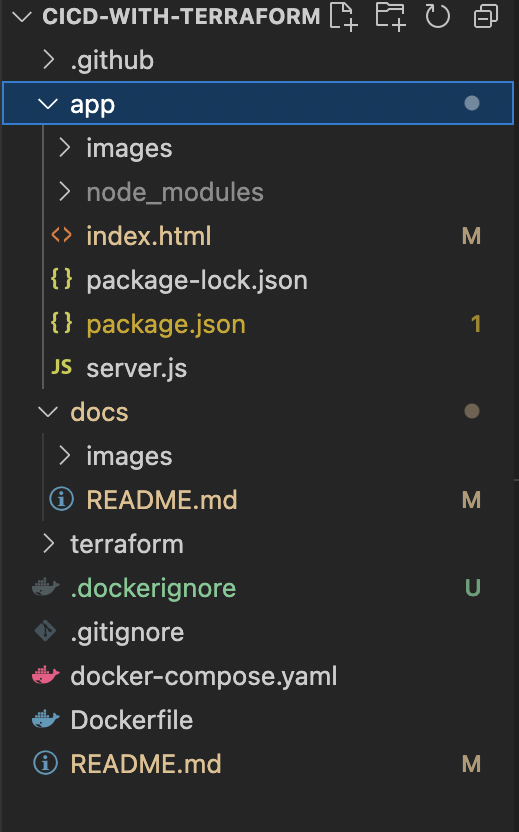
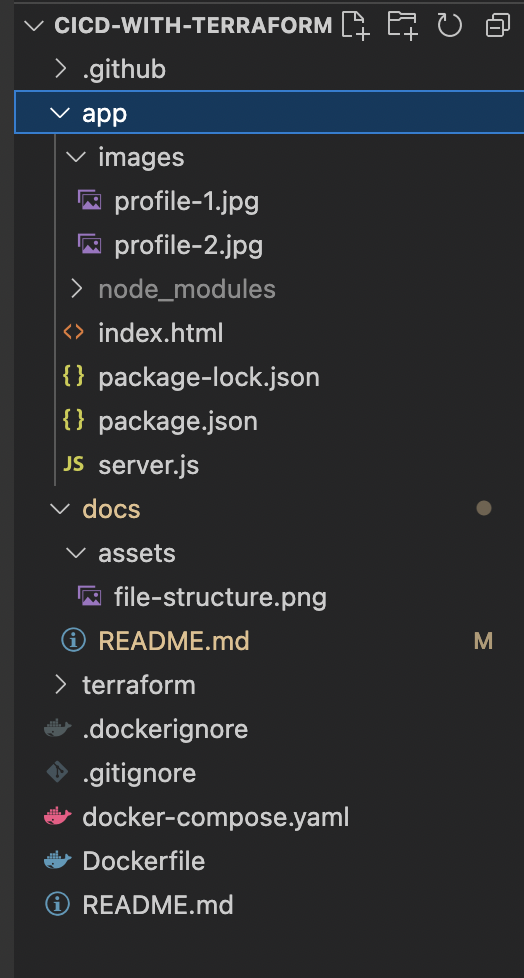
refactor

diff --git a/docs/README.md b/docs/README.md
@@ -5,8 +5,8 @@ The flow will follow the same architecture below;
 ![design](docs/assets/designs.svg)
 * [Continous Integration](#continous-integration)
   * [App Source Code](#app-source-code)
-  * [Create Dockerfile](#app-source-code)
-  * [Create Dockerfile](#create-dockerfile)
+  * [Multiple Services with Docker-compose](#multiple-services-with-docker-compose)
+  * [Build Image with Dockerfile](#build-image-with-dockerfile)
   * [Create and Configure Pipeline](#create-and-configure-pipeline)
   * [Check with DockerHub](#check-with-dockerhub)
 * [IAC With Terraform](#iac-with-terraform)
@@ -15,7 +15,10 @@ The flow will follow the same architecture below;
 From the architecture flow shown above;
 Git --> GitHub --> GitHub Actions --> Build --> Push to DockerHub --> Terraform --> AWS Resources.
 ## Continous Integration
-A simple profile app developing with Nodejs and MongoDB & Mongo-Express for handling data persistence. I choose Docker-compose to run these services.
+A simple profile app developing with Nodejs and MongoDB & Mongo-Express for handling data persistence. I choose Docker-compose to run these services, while build the image with GitHub Actions and get push to DockerHub.
+Here is the project file structure; 
+![file structure](docs/assets/file-structure.png)
+
 ### App Source Code
 I am using HTML and JS for the Frontend and Nodejs for the Backend, listening at port 3000. Mongo-Express make it easier for me working with MongoDB instead of using CLI, listening it at port 8081.
 I created a folder ``app`` which contains static files;
@@ -23,10 +26,13 @@ I created a folder ``app`` which contains static files;
 2.) server.js - backend
 3.) images folder - holding my pictures assets
 NOTE; node_modules, package-lock.json and package.json is auto generated at the instance of installing nodejs.
-Here is my project file structure; 
-![file structure](docs/assets/file-structure.svg)
 
-### Create Dockerfile
+### Multiple Services with Docker-compose
+I will be using Docker-compose to run this app and other third-party(MongoDB and Mongo-Express for data persistence) services. From ``https://hub.docker.com`` I checked the doc for the right use of MongoDB and Mongo-Express image and its environment varibale configuration. The resulting configuration for the yaml file is saved with named ``docker-compose.yaml`` as part of application code in the root of the folder.
+NOTE; In production scale, all the environment variable need to be well secured not as I expose it here.
+
+### Build Image with Dockerfile
 I will be using Docker-compose to run multiple services I intend using in this project which are MongoDB and Mongo-Express for data persistence. This will handle all my data from the app. 
 From ``https://hub.docker.com`` I check the doc for right MongoDB and Mongo-Express image and its environment varibale configuration to pull for this project.
 
+## IAC With Terraform
